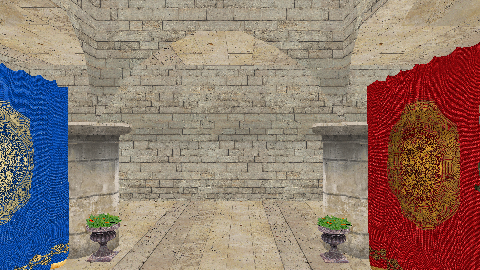
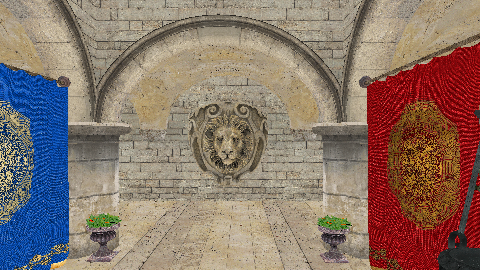
bilinear texture sampling

Changed region(s): [[0.0, 0.0, 1.0, 0.6815], [0.9062, 0.5333, 1.0, 1.0], [0.9688, 0.4148, 1.0, 0.4444]]

diff --git a/src/app.cpp b/src/app.cpp
@@ -15,6 +15,7 @@
 // For writing raytraced output:
 #define STB_IMAGE_WRITE_IMPLEMENTATION
 #include "stb_image_write.h"
+#include "stb_image.h"
 
 
 namespace Ty
@@ -160,12 +161,113 @@ namespace Ty
 		}
 	}
 
+#if USE_RAYTRACING
+    u32 get_texel_nearest(f32 u, f32 v, i32 texture_width, i32 texture_height, i32 texture_channels, u8* texture_data)
+    {
+        u = Math::fwrap(u, 0, 1);
+        v = Math::fwrap(v, 0, 1);
+
+        i32 pixel_x = u * texture_width;
+        i32 pixel_y = v * texture_height;
+
+        u8* hit_addr = (u8*)(texture_data) + (pixel_y * texture_width + pixel_x) * texture_channels;
+        u8 r = *(hit_addr);
+        u8 g = *(hit_addr + 1);
+        u8 b = *(hit_addr + 2);
+        //u8 a = *(hit_addr + 3);
+        
+        u8 a = 255;    // TODO: Alpha support
+
+        u32 pixel = 0;
+        pixel = (pixel & 0xFFFFFF00) |  r;
+        pixel = (pixel & 0xFFFF00FF) | ((uint32_t)g <<  8);
+        pixel = (pixel & 0xFF00FFFF) | ((uint32_t)b << 16);
+        pixel = (pixel & 0x00FFFFFF) | ((uint32_t)a << 24);
+    }
+
+    u32 get_texel_bilinear(f32 u, f32 v, i32 texture_width, i32 texture_height, i32 texture_channels, u8* texture_data)
+    {
+        u = Math::fwrap(u, 0, 1);
+        v = Math::fwrap(v, 0, 1);
+
+        f32 pixel_x = u * texture_width - 0.5f, pixel_y = v * texture_height - 0.5f;
+        pixel_x = CLAMP(pixel_x, 0, texture_width   - 1);
+        pixel_y = CLAMP(pixel_y, 0, texture_height  - 1);
+
+        f32 t_x = pixel_x - (i32)floor(pixel_x);
+        f32 t_y = pixel_y - (i32)floor(pixel_y);
+
+        f32 t_pi[2] = { 1.f - t_x, t_x };
+        f32 t_pj[2] = { 1.f - t_y, t_y };
+
+        u8 r = 0, g = 0, b = 0, a = texture_channels == 4 ? 0 : 255;
+        for(i32 pi = 0; pi < 2; pi++)
+        {
+            for(i32 pj = 0; pj < 2; pj++)
+            {
+                f32 p = t_pi[pi] * t_pj[pj];
+                if(p)
+                {
+                    i32 hit_x = CLAMP((i32)pixel_x + pi, 0, texture_width);
+                    i32 hit_y = CLAMP((i32)pixel_y + pj, 0, texture_height);
+                    u8* hit_addr = (u8*)(texture_data) + (hit_y * texture_width + hit_x) * texture_channels;
+                    r += (*(hit_addr)     ) * p;
+                    g += (*(hit_addr + 1) ) * p;
+                    b += (*(hit_addr + 2) ) * p;
+                    if(texture_channels == 4) a += (*(hit_addr + 3) ) * p;
+                }
+            }
+        }
+        u32 pixel = 0;
+        a = 255;    // TODO: Alpha support
+
+        pixel = (pixel & 0xFFFFFF00) |  r;
+        pixel = (pixel & 0xFFFF00FF) | ((uint32_t)g <<  8);
+        pixel = (pixel & 0xFF00FFFF) | ((uint32_t)b << 16);
+        pixel = (pixel & 0x00FFFFFF) | ((uint32_t)a << 24);
+        return pixel;
+    }
+#endif
+
 	void App::run()
 	{
 		Graphics::ResourceHandle<Graphics::Model> model_sponza = Graphics::model_resource_manager.load_from_file(MODELS_PATH"sponza.obj");
 
 		auto sponza_parts = Graphics::model_resource_manager.get_parts(model_sponza);
-#if !USE_RAYTRACING
+#if 0
+        i32 w, h, nC;
+        i32 upscale = 4;
+        u8* img_data = stbi_load(TEXTURES_PATH"/sponza_thorn_diff.png", &w, &h, &nC, 0);
+        u32* framebuffer = (u32*)malloc(sizeof(u32) * w * h * upscale * upscale);
+
+        for(i32 i = 0; i < h * upscale; i++)
+        {
+            for(i32 j = 0; j < w * upscale; j++)
+            {
+#if 0   // NEAREST
+                u8* hit_addr = (u8*)(img_data) + ((i/upscale) * w + (j/upscale)) * nC;
+                u8 r = *(hit_addr);
+                u8 g = *(hit_addr + 1);
+                u8 b = *(hit_addr + 2);
+                u8 a = *(hit_addr + 3);
+
+                u32 pixel = 0;
+                pixel = (pixel & 0xFFFFFF00) |  r;
+                pixel = (pixel & 0xFFFF00FF) | ((uint32_t)g <<  8);
+                pixel = (pixel & 0xFF00FFFF) | ((uint32_t)b << 16);
+                pixel = (pixel & 0x00FFFFFF) | ((uint32_t)a << 24);
+#else   // BILINEAR
+                f32 v = ((f32)i / (f32)(h * upscale));
+                f32 u = ((f32)j / (f32)(w * upscale));
+
+                u32 pixel = get_texel_bilinear(u, v, w, h, nC, img_data);
+#endif
+                framebuffer[i * w * upscale + j] = pixel;
+            }
+        }
+
+        stbi_write_png(RESOURCES_PATH"out/bilinear_test_LINEAR.png", w * upscale, h * upscale, 4, framebuffer, w * 4 * upscale);
+#elif !USE_RAYTRACING
         // Realtime pipeline
 		for (int i = 0; i < sponza_parts.size(); i++)
 		{
@@ -202,7 +304,6 @@ namespace Ty
 #else
         // Raytracing pipeline:
         u32* framebuffer = (u32*)malloc(sizeof(u32) * GAME_RENDER_WIDTH * GAME_RENDER_HEIGHT);
-        u32* framebuffer_depth = (u32*)malloc(sizeof(u32) * GAME_RENDER_WIDTH * GAME_RENDER_HEIGHT);
 
         //      Populate MeshRenderables
         std::vector<Graphics::MeshRenderable*> renderables;
@@ -291,46 +392,16 @@ namespace Ty
                 // If there's any collision, render the final color based on distance
                 if(hit)
                 {
-                    u32 pixel;
-
                     // Sample renderable's texture
                     Graphics::Material* hit_material = Graphics::material_resource_manager.get(hit_renderable->material);
                     Graphics::Texture* hit_diffuse = Graphics::texture_resource_manager.get(hit_material->textures[0]);
 
-                    Math::v2f pix = {};
-                    pix.x = (hit_uv.u * hit_diffuse->desc.width) - 0.5f;
-                    pix.y = ((1 - hit_uv.v) * hit_diffuse->desc.height) - 0.5f;
-
-                    pix.x = Math::fwrap(pix.x, 0, hit_diffuse->desc.width);
-                    pix.y = Math::fwrap(pix.y, 0, hit_diffuse->desc.height);
-
-                    u32 stride = hit_diffuse->desc.format == Graphics::TextureFormat::R8_G8_B8_A8_UNORM
+                    u32 channels = hit_diffuse->desc.format == Graphics::TextureFormat::R8_G8_B8_A8_UNORM
                         ? 4
                         : 3;
+                    u32 pixel = get_texel_bilinear(hit_uv.u, 1.f - hit_uv.v, hit_diffuse->desc.width, hit_diffuse->desc.height, channels, (u8*)hit_diffuse->pData);
 
-                    u32 pixel_offset = ((u32)pix.y * hit_diffuse->desc.width + (u32)pix.x) * stride;
-                    u8* hit_addr = (u8*)(hit_diffuse->pData) + pixel_offset;
-
-                    u8 r = *(hit_addr);
-                    u8 g = *(hit_addr + 1);
-                    u8 b = *(hit_addr + 2);
-                    u8 a = 255;                 // TODO_RENDER: Account for alpha of hit pixel. This'll require sampling before.
-
-                    pixel = (pixel & 0xFFFFFF00) |  r;
-                    pixel = (pixel & 0xFFFF00FF) | ((uint32_t)g <<  8);
-                    pixel = (pixel & 0xFF00FFFF) | ((uint32_t)b << 16);
-                    pixel = (pixel & 0x00FFFFFF) | ((uint32_t)a << 24);
                     framebuffer[i * GAME_RENDER_WIDTH + j] = pixel;
-                    
-                    // Render to depth texture as well
-                    f32 color_t = Math::lerp(0, 255, 1.f - (hit_len / 100.f));
-                    r = (u8)color_t, g = (u8)color_t, b = (u8)color_t, a = 255;
-
-                    pixel = (pixel & 0xFFFFFF00) |  r;
-                    pixel = (pixel & 0xFFFF00FF) | ((uint32_t)g <<  8);
-                    pixel = (pixel & 0xFF00FFFF) | ((uint32_t)b << 16);
-                    pixel = (pixel & 0x00FFFFFF) | ((uint32_t)a << 24);
-                    framebuffer_depth[i * GAME_RENDER_WIDTH + j] = pixel;
                 }
                 else
                 {
@@ -341,14 +412,12 @@ namespace Ty
                     pixel = (pixel & 0xFF00FFFF) | ((uint32_t)b << 16);
                     pixel = (pixel & 0x00FFFFFF) | ((uint32_t)a << 24);
                     framebuffer[i * GAME_RENDER_WIDTH + j] = pixel;
-                    framebuffer_depth[i * GAME_RENDER_WIDTH + j] = pixel;
                 }
             }
             printf("Finished pixels at row h:%d\n", i);
         }
 
-        stbi_write_png(RESOURCES_PATH"out/raytrace_out_diffuse.png", GAME_RENDER_WIDTH, GAME_RENDER_HEIGHT, 4, framebuffer, GAME_RENDER_WIDTH * 4);
-        stbi_write_png(RESOURCES_PATH"out/raytrace_out_depth.png", GAME_RENDER_WIDTH, GAME_RENDER_HEIGHT, 4, framebuffer_depth, GAME_RENDER_WIDTH * 4);
+        stbi_write_png(RESOURCES_PATH"out/raytrace_out_diffuse_bilinear.png", GAME_RENDER_WIDTH, GAME_RENDER_HEIGHT, 4, framebuffer, GAME_RENDER_WIDTH * 4);
 #endif
 	}
 
